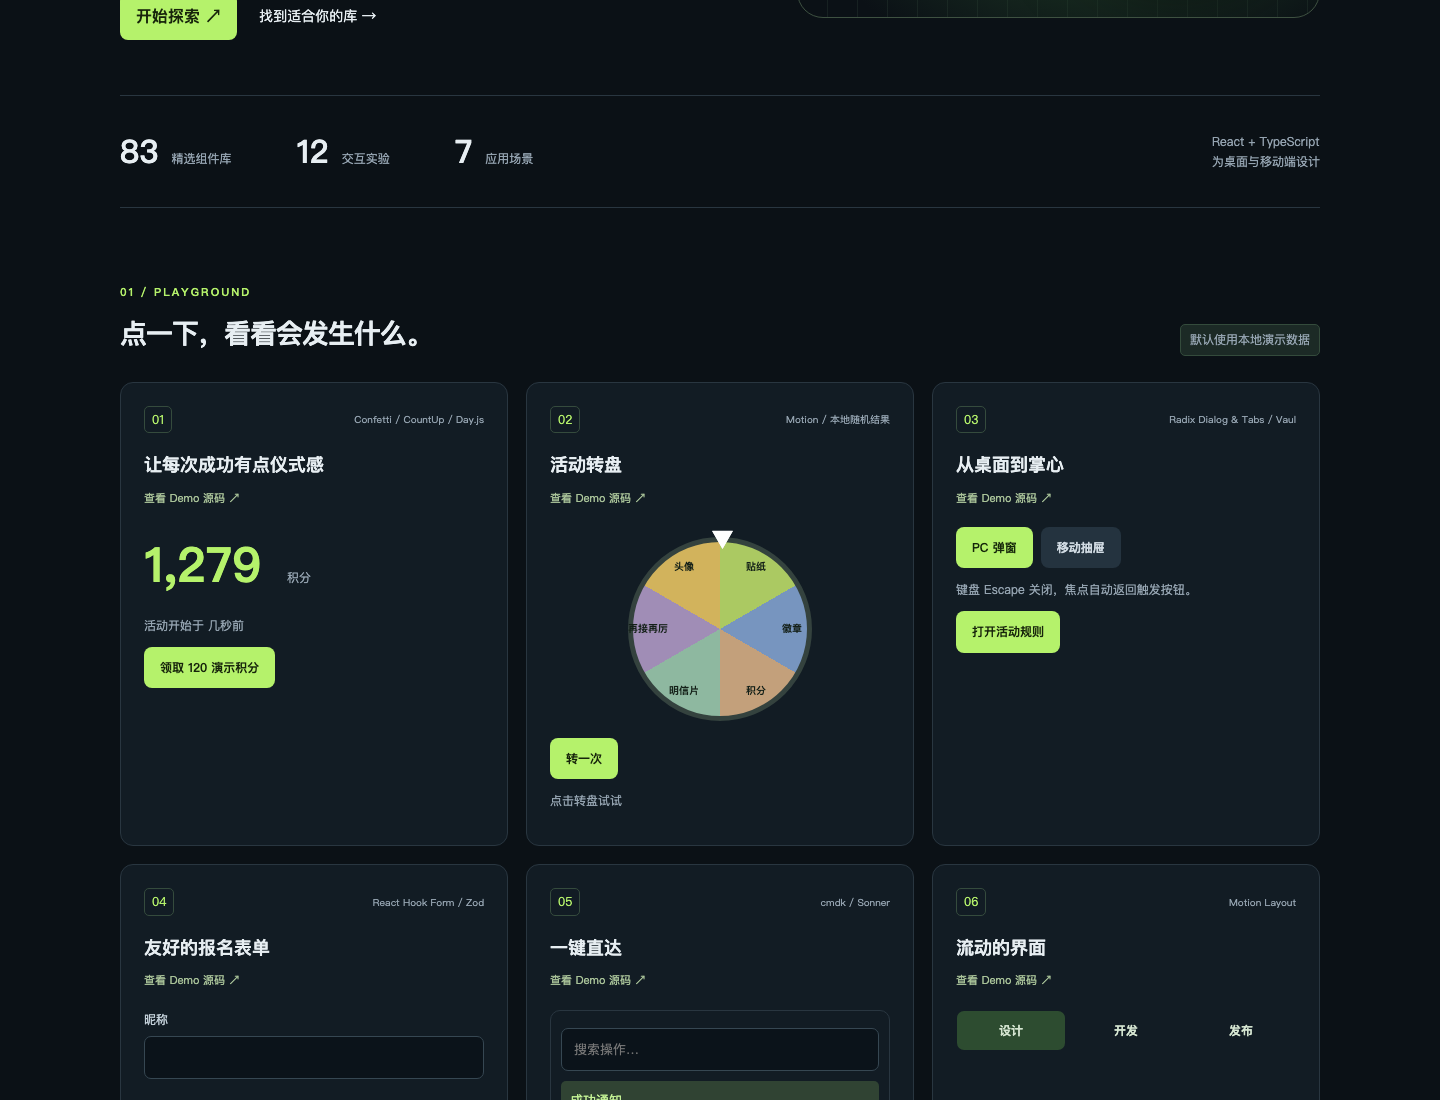
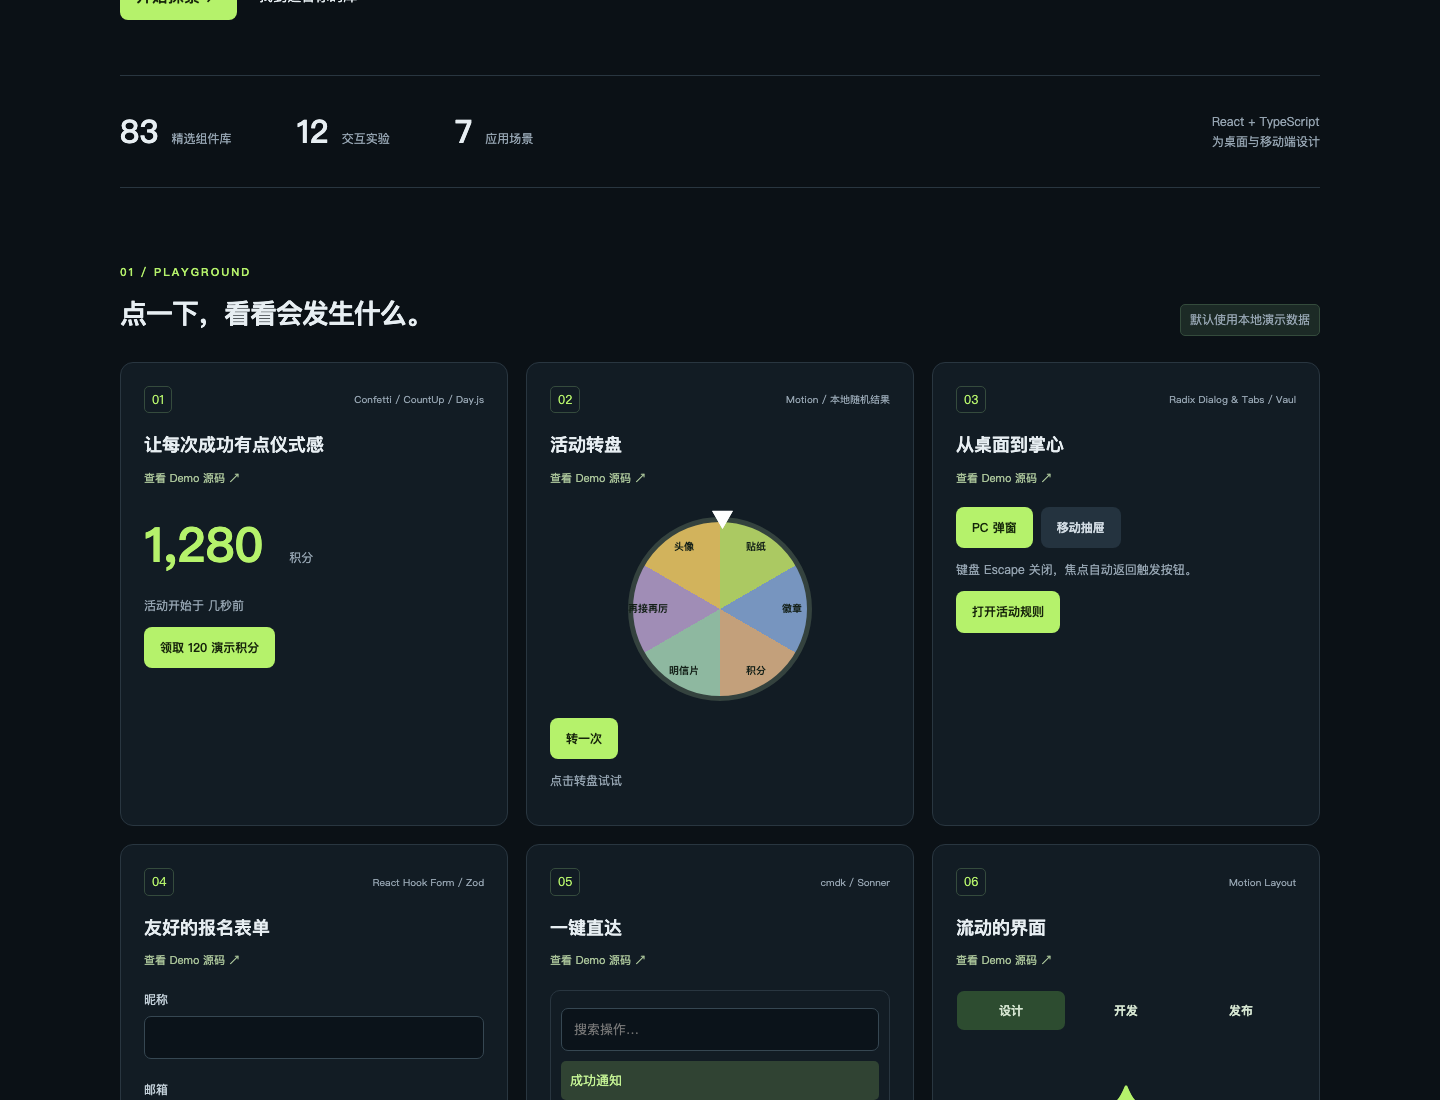
docs: update preview images for desktop and mobile layouts

diff --git a/docs/validation.md b/docs/validation.md
@@ -1,0 +1,13 @@
+# 本次验证记录
+
+2026-11-09，本地 macOS arm64 / Node 24.14.1。
+
+- `npm run build`：TypeScript 与生产构建通过；按 React、动效、浮层、数据与钱包分包，无超过默认 500 kB 阈值的单个 chunk。
+- `npm test`：2 个测试通过。合约生命周期测试包含部署、初始读取、模拟不变更状态、真实广播确认、事件解析、拒绝 value、非法调用回滚。
+- Playwright：7 个场景 × 桌面 / 手机视口，共 14 项通过。首次桌面部署遇到默认 gas 不足，修复为估算部署 gas 后，两个平台的真实 RPC 场景均复核通过。
+- 生产产物冒烟：桌面与手机视口均无 JavaScript 运行异常、无页面横向溢出，弹窗可打开/关闭；截图见 README。
+- `npm ci --dry-run --ignore-scripts --os=linux --cpu=x64`：通过。Ganache 内嵌 fsevents 在 lockfile 标为 optional，避免 Linux CI 误装 macOS 依赖。
+
+Ganache 在 Node 24 / macOS 上原生 µWS 模块不可用时，会提示回退到 Node.js 实现；本次实际部署和读写测试均使用该回退实现通过。CI 配置使用 Node 22，远程执行结果以 GitHub Actions 为准。
+
+未验证范围：真实钱包扩展签名 UI、手机钱包 App 深链/回跳、外部测试网、Zendesk 真实账号。`recipes` 中的独立生态配方未安装编译；需要按配置条件在独立项目里联调，不能把本记录视为其验证结果。

diff --git a/README.md b/README.md
@@ -4,6 +4,10 @@
 
 **83 个组件库选型条目 · 12 个交互实验 · 7 类应用场景**。目录区支持关键词、场景和覆盖状态筛选。没有把所有目录条目都安装到项目：16 个库有主站实现，10 个有独立接入配方，其余提供官方选型入口。
 
+![Activity Lab 桌面预览](docs/preview-desktop.png)
+
+[查看移动端预览](docs/preview-mobile.png)
+
 ## 快速运行
 
 需要 Node.js 22+、npm。
@@ -72,7 +76,7 @@ npx playwright install chromium
 npm run test:e2e         # Chromium 桌面和手机视口
 ```
 
-合约测试验证模拟不改状态、交易确认、事件、非 payable 拒绝和非法调用回滚。浏览器测试覆盖筛选、弹窗/抽屉、表单、表格、客服预览、转盘、二维码和模拟钱包状态变化。真实钱包 App、WalletConnect projectId、Zendesk 账号接入仍需自行完成真机联调。
+合约测试验证模拟不改状态、交易确认、事件、非 payable 拒绝和非法调用回滚。浏览器测试覆盖筛选、弹窗/抽屉、表单、表格、客服预览、转盘、二维码、模拟钱包状态变化，以及页面调用真实本地 RPC 完成交易确认。真实钱包 App、WalletConnect projectId、Zendesk 账号接入仍需自行完成真机联调。
 
 ## 原始参考
 
